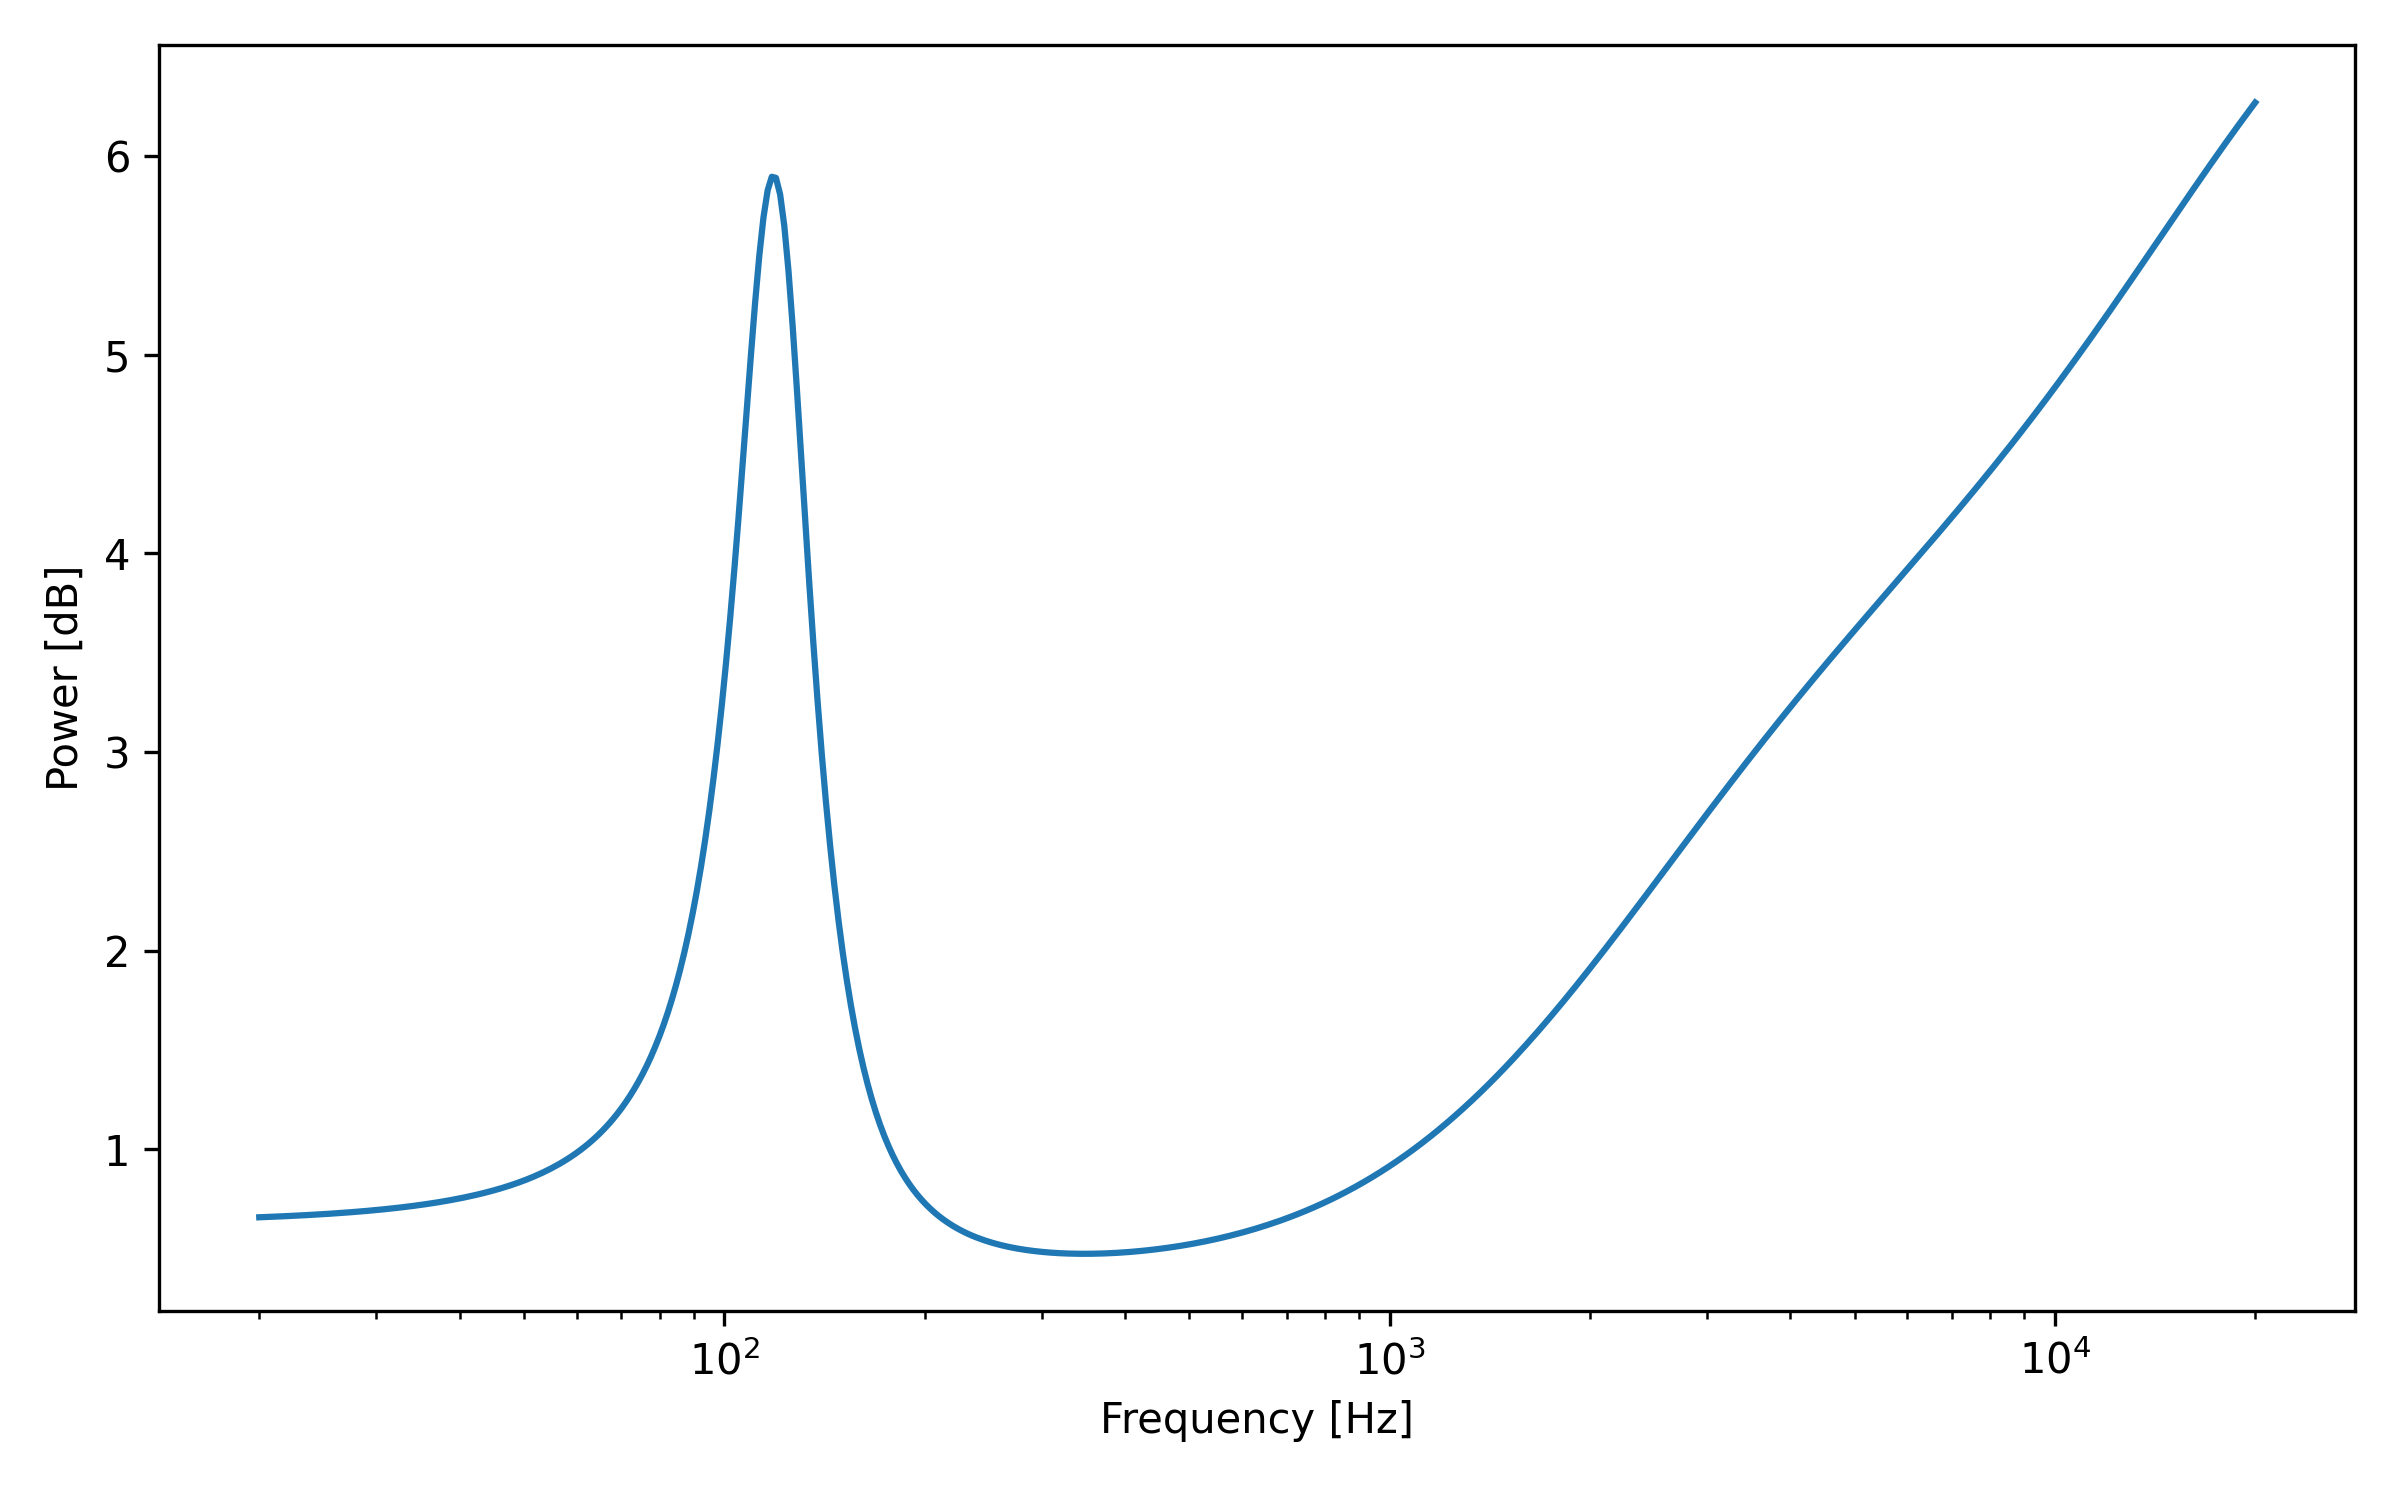
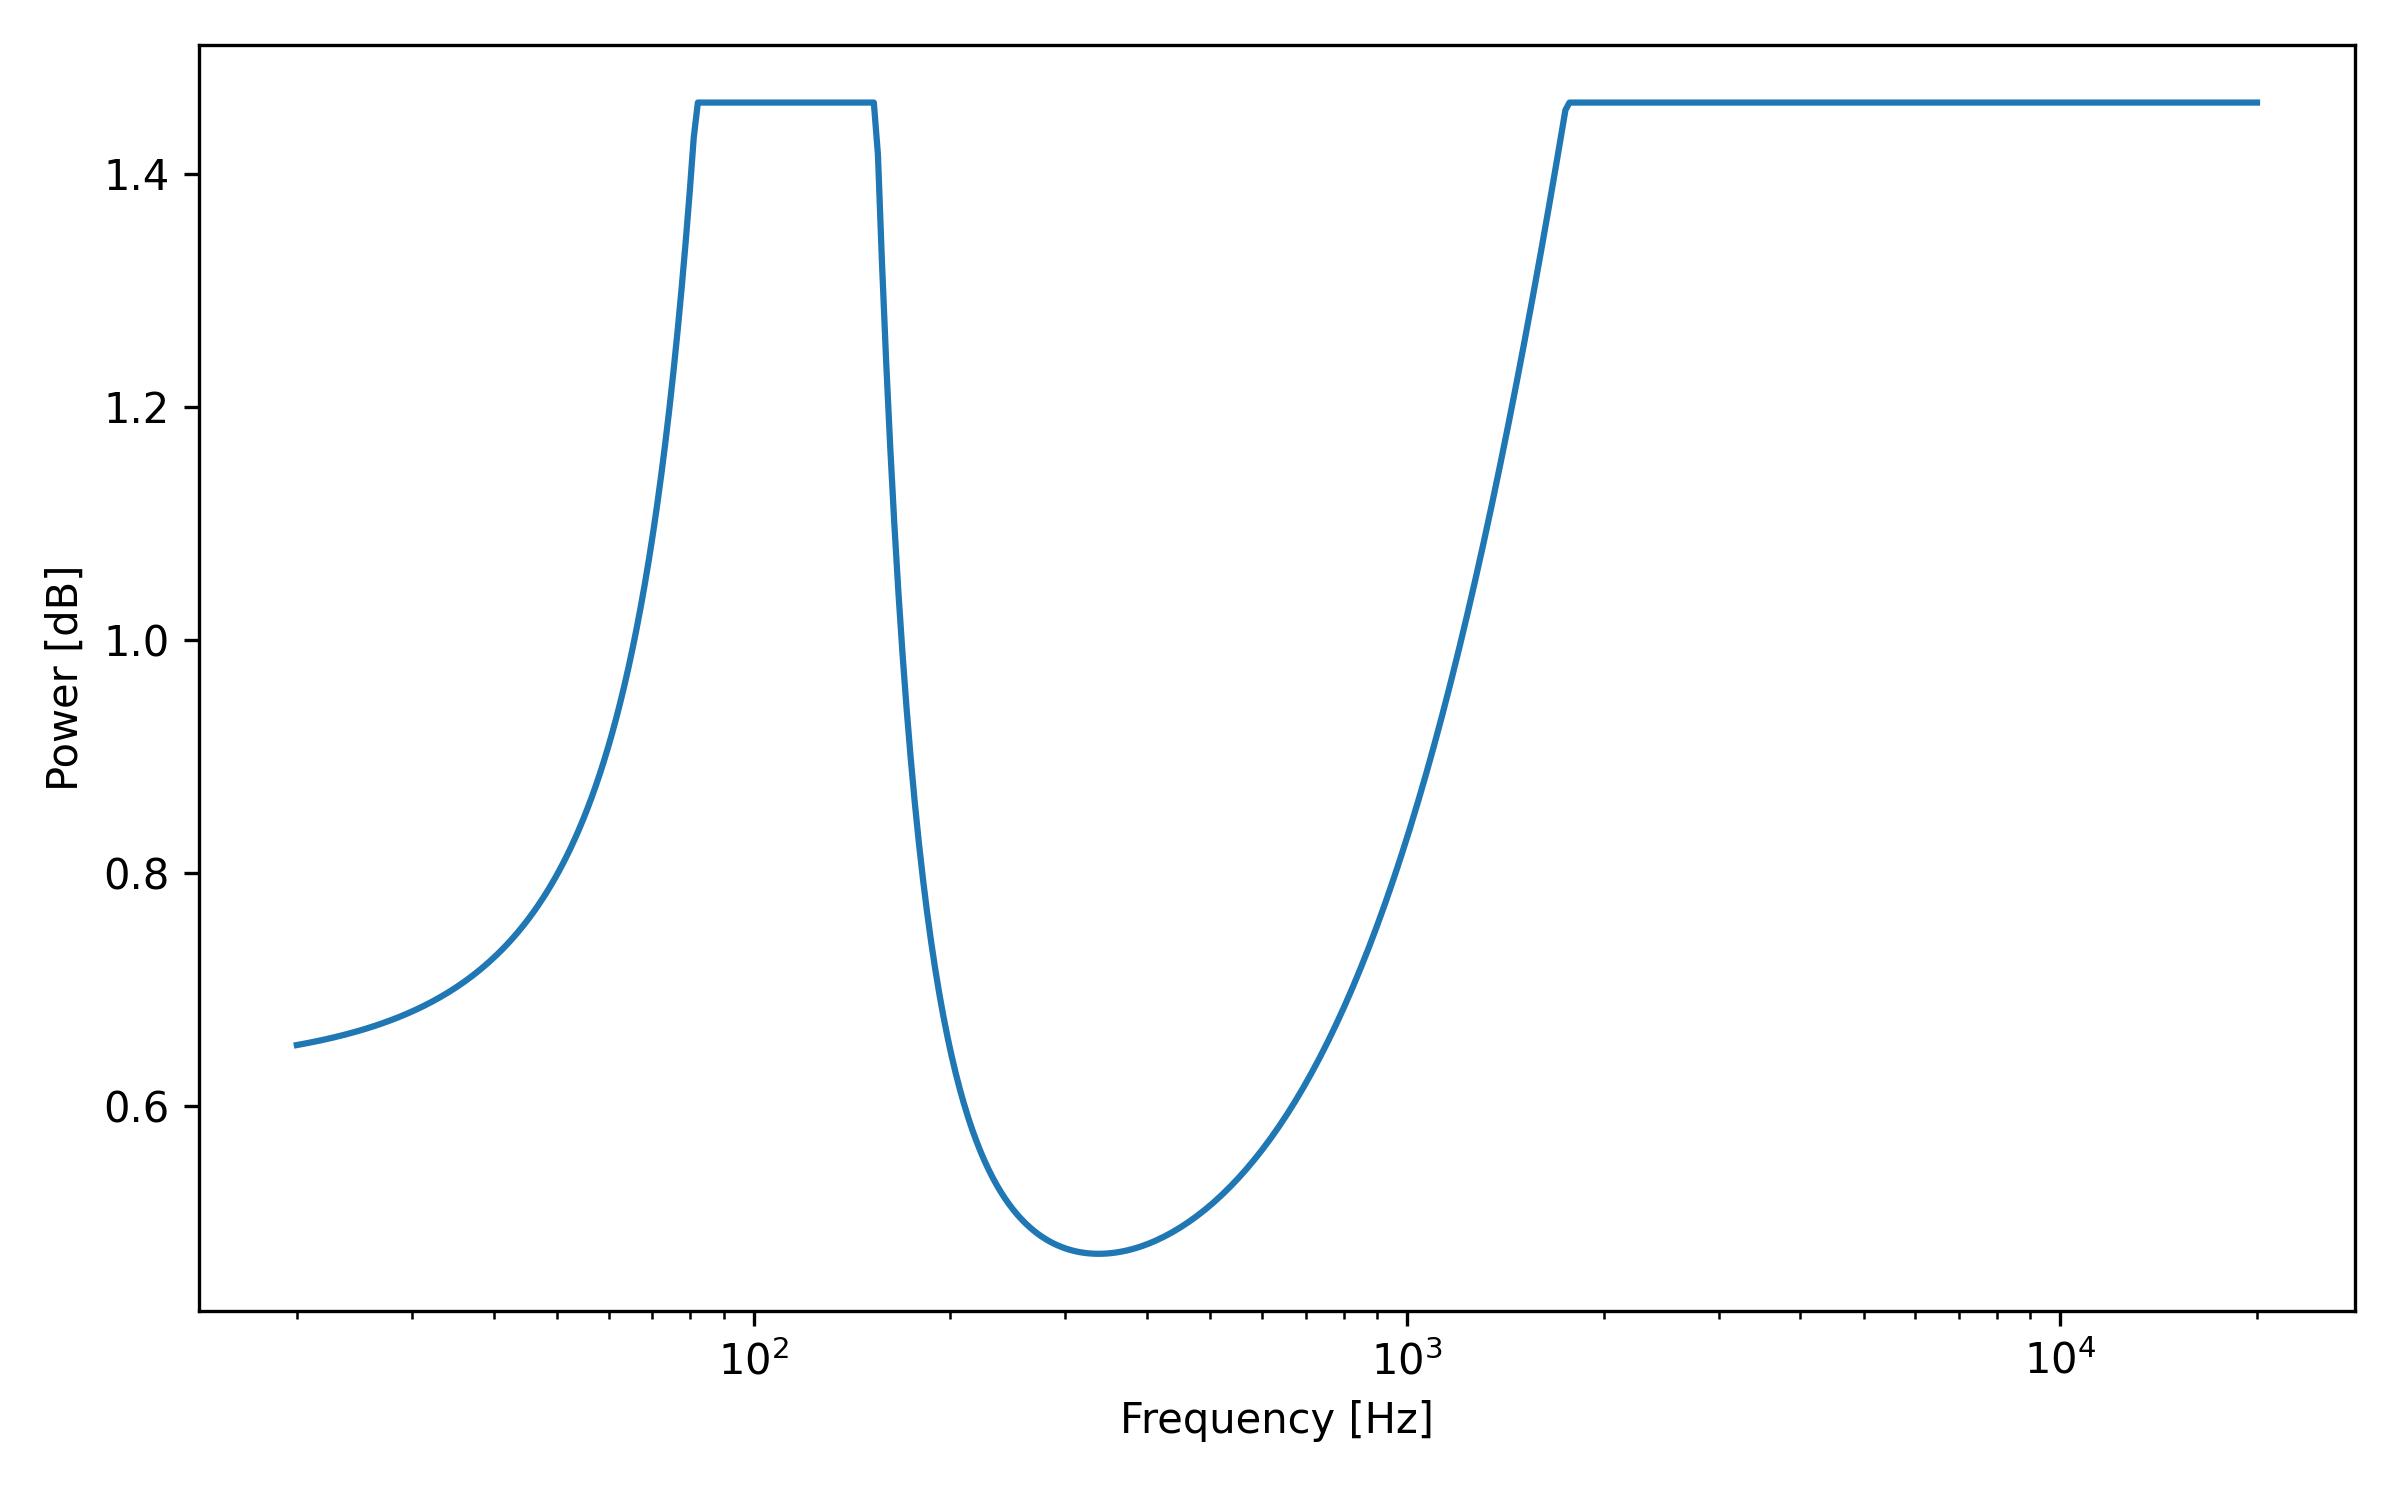
Added max power function

diff --git a/Simulation/python/impedance.py b/Simulation/python/impedance.py
@@ -114,7 +114,7 @@ def plotPower(p: list, pInput, cfgPath: Union[Path, None]=None):
 
 
 def calcImpedancePt(freq, r_ser, r_main, c_main, l_main, l_main_r, r_ramp1, l_ramp1, l_ramp1_r, r_ramp2=None, l_ramp2=None,
-                    l_ramp2_r=None, i_i=None, r_drv=None) -> Tuple[float, float, Union[dict, None]]:
+                    l_ramp2_r=None, i_i=None, r_amp=None, r_drv=None, p_clip=None) -> Tuple[float, float, Union[dict, None]]:
     w = 2 * math.pi * freq
     w = w.item()
 
@@ -136,7 +136,12 @@ def calcImpedancePt(freq, r_ser, r_main, c_main, l_main, l_main_r, r_ramp1, l_ra
     z = r_ser + z_main + z_ramp + z_ramp2
 
     if i_i is not None:
-        i = i_i * r_drv / (r_drv + z)
+        i = i_i * r_amp / (r_amp + z)
+        if p_clip is not None:
+            v_i_max = math.sqrt(p_clip * r_drv)
+            # i_max = abs(v_i_max / z)
+            i_max = math.sqrt(p_clip / z.real)
+            i = min(i.real, i_max)
         p_ser = abs(i)**2 * r_ser
 
         v_res = i * z_main
@@ -181,12 +186,14 @@ def calcImpedance(freq: np.ndarray, circuitInfo: dict, drv_info: dict) -> Tuple[
         r_drv = drv_info['r_drv']
         v_i = math.sqrt(drv_info['p_drv'] * r_drv)
         i_i = v_i / (1 / (1/r_drv + 1/drv_info['r_int']))
+        p_clip = drv_info.get('p_clip', None)
     else:
         r_drv = None
         i_i = None
+        p_clip = None
 
     for cnt, f in enumerate(freq):
-        magPt, phiPt, p_dict = calcImpedancePt(f, i_i=i_i, r_drv=drv_info['r_int'],  **circuitInfo)
+        magPt, phiPt, p_dict = calcImpedancePt(f, i_i=i_i, r_drv=r_drv, r_amp=drv_info['r_int'], p_clip=p_clip, **circuitInfo)
         mag[cnt] = magPt
         phi[cnt] = phiPt
         if p_dict is not None: